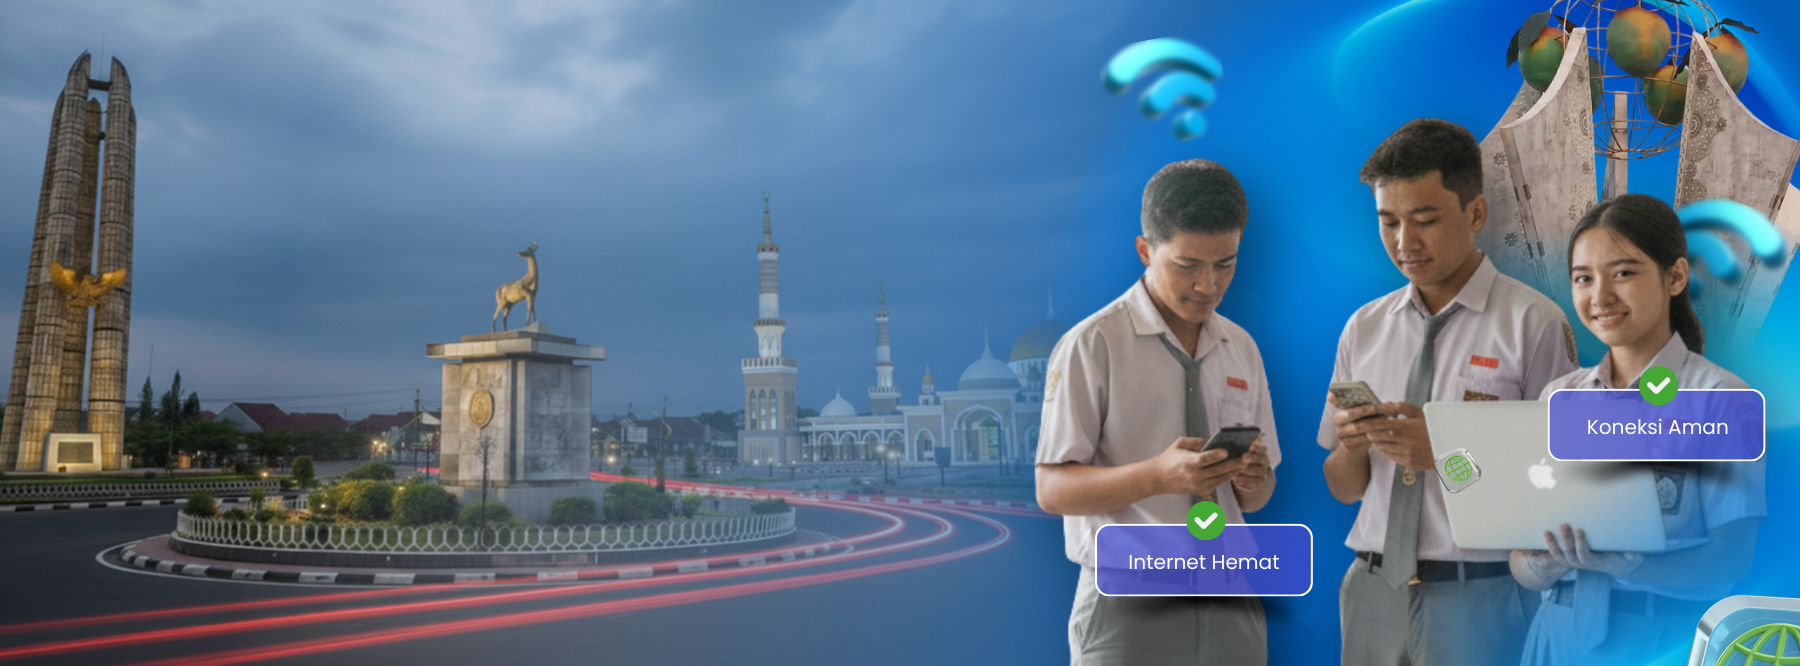
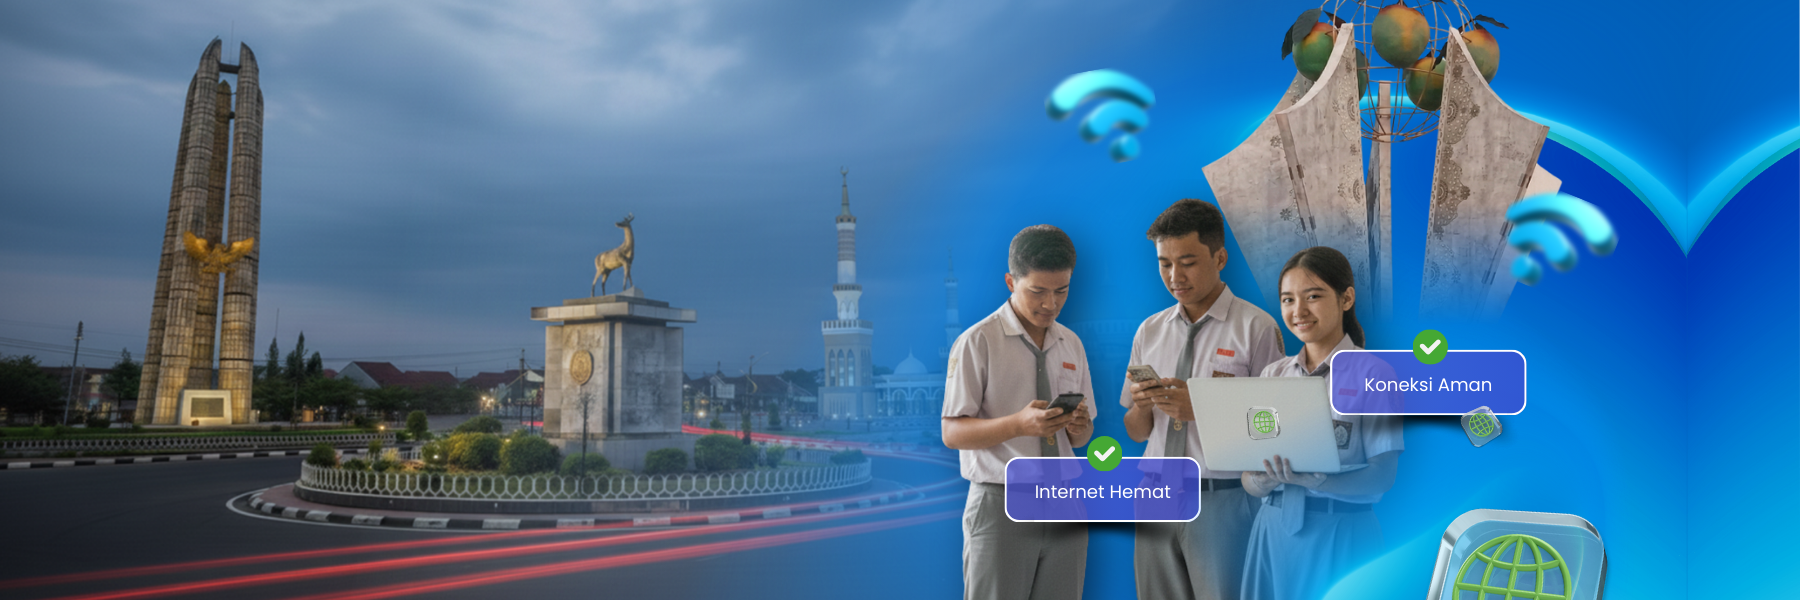
slider

diff --git a/src/assets/css/Slider.css b/src/assets/css/Slider.css
@@ -41,8 +41,8 @@
   background-size: cover;
   background-position: center;
   transform: scale(1.05);
-  /* transition: transform 8s ease-in-out; */
-  /* animation: zoomInOut 8s ease-in-out infinite; */
+  transition: transform 8s ease-in-out;
+  animation: zoomInOut 8s ease-in-out infinite;
   filter: brightness(0.9);
 }
 
